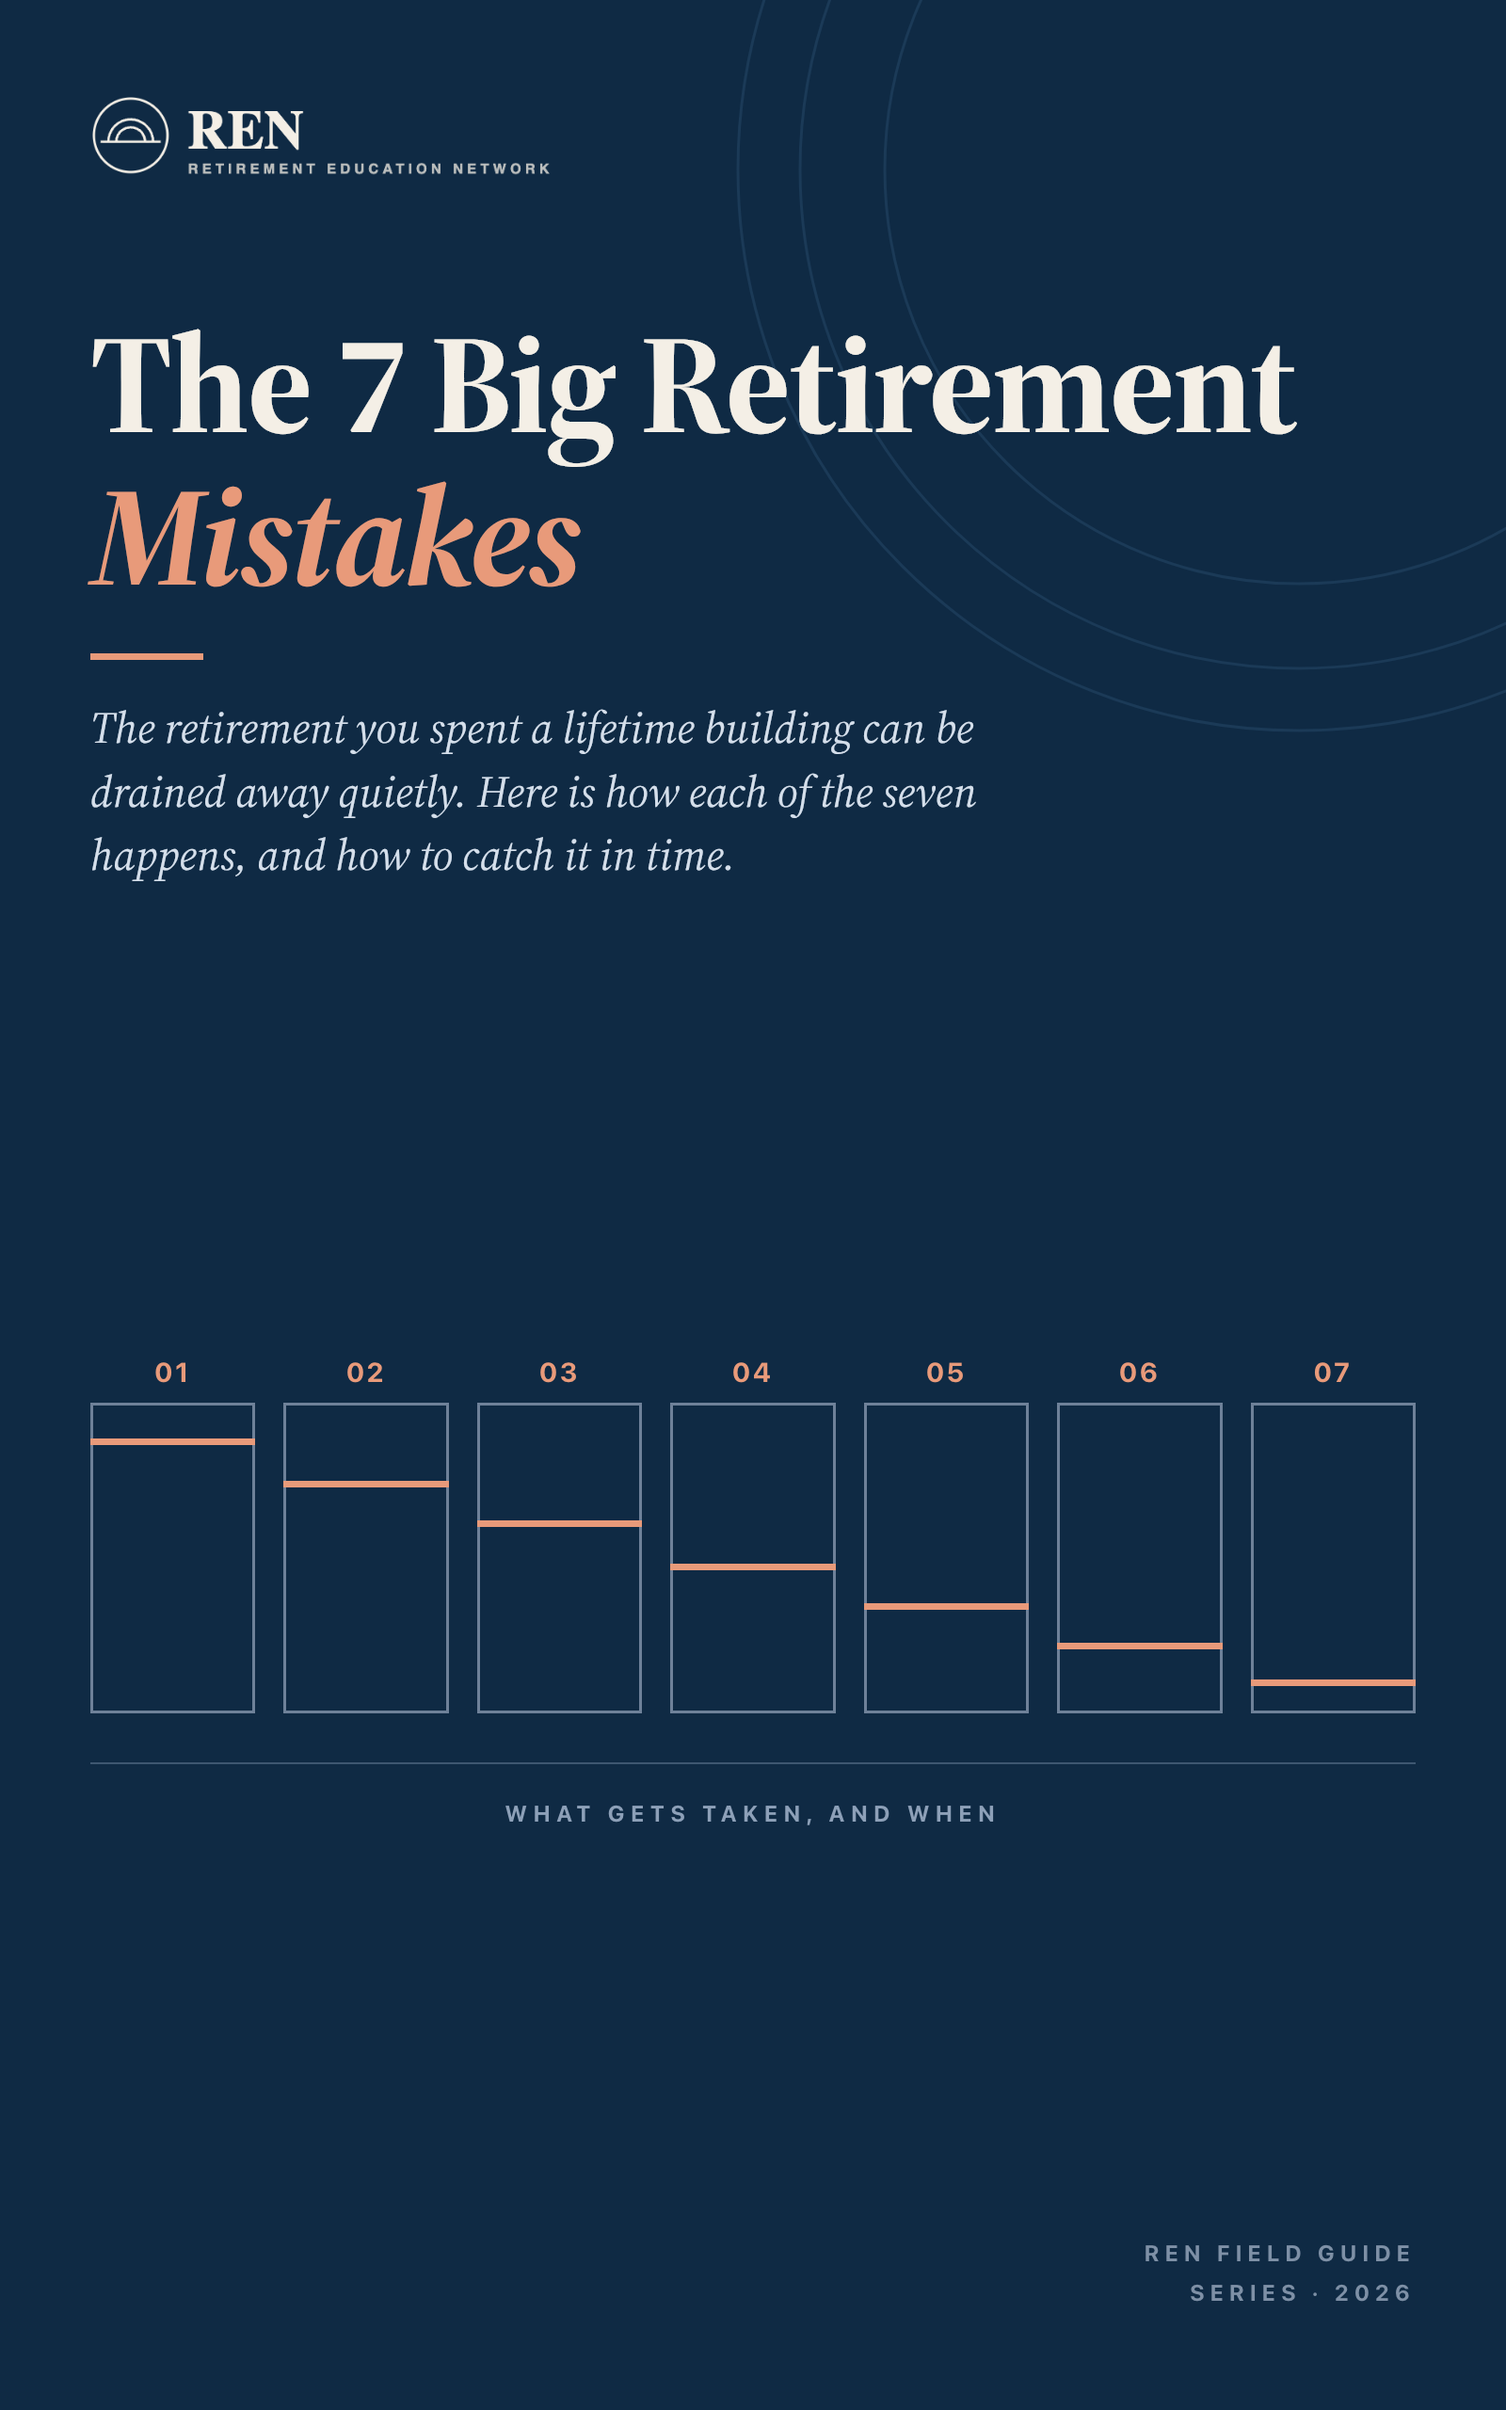
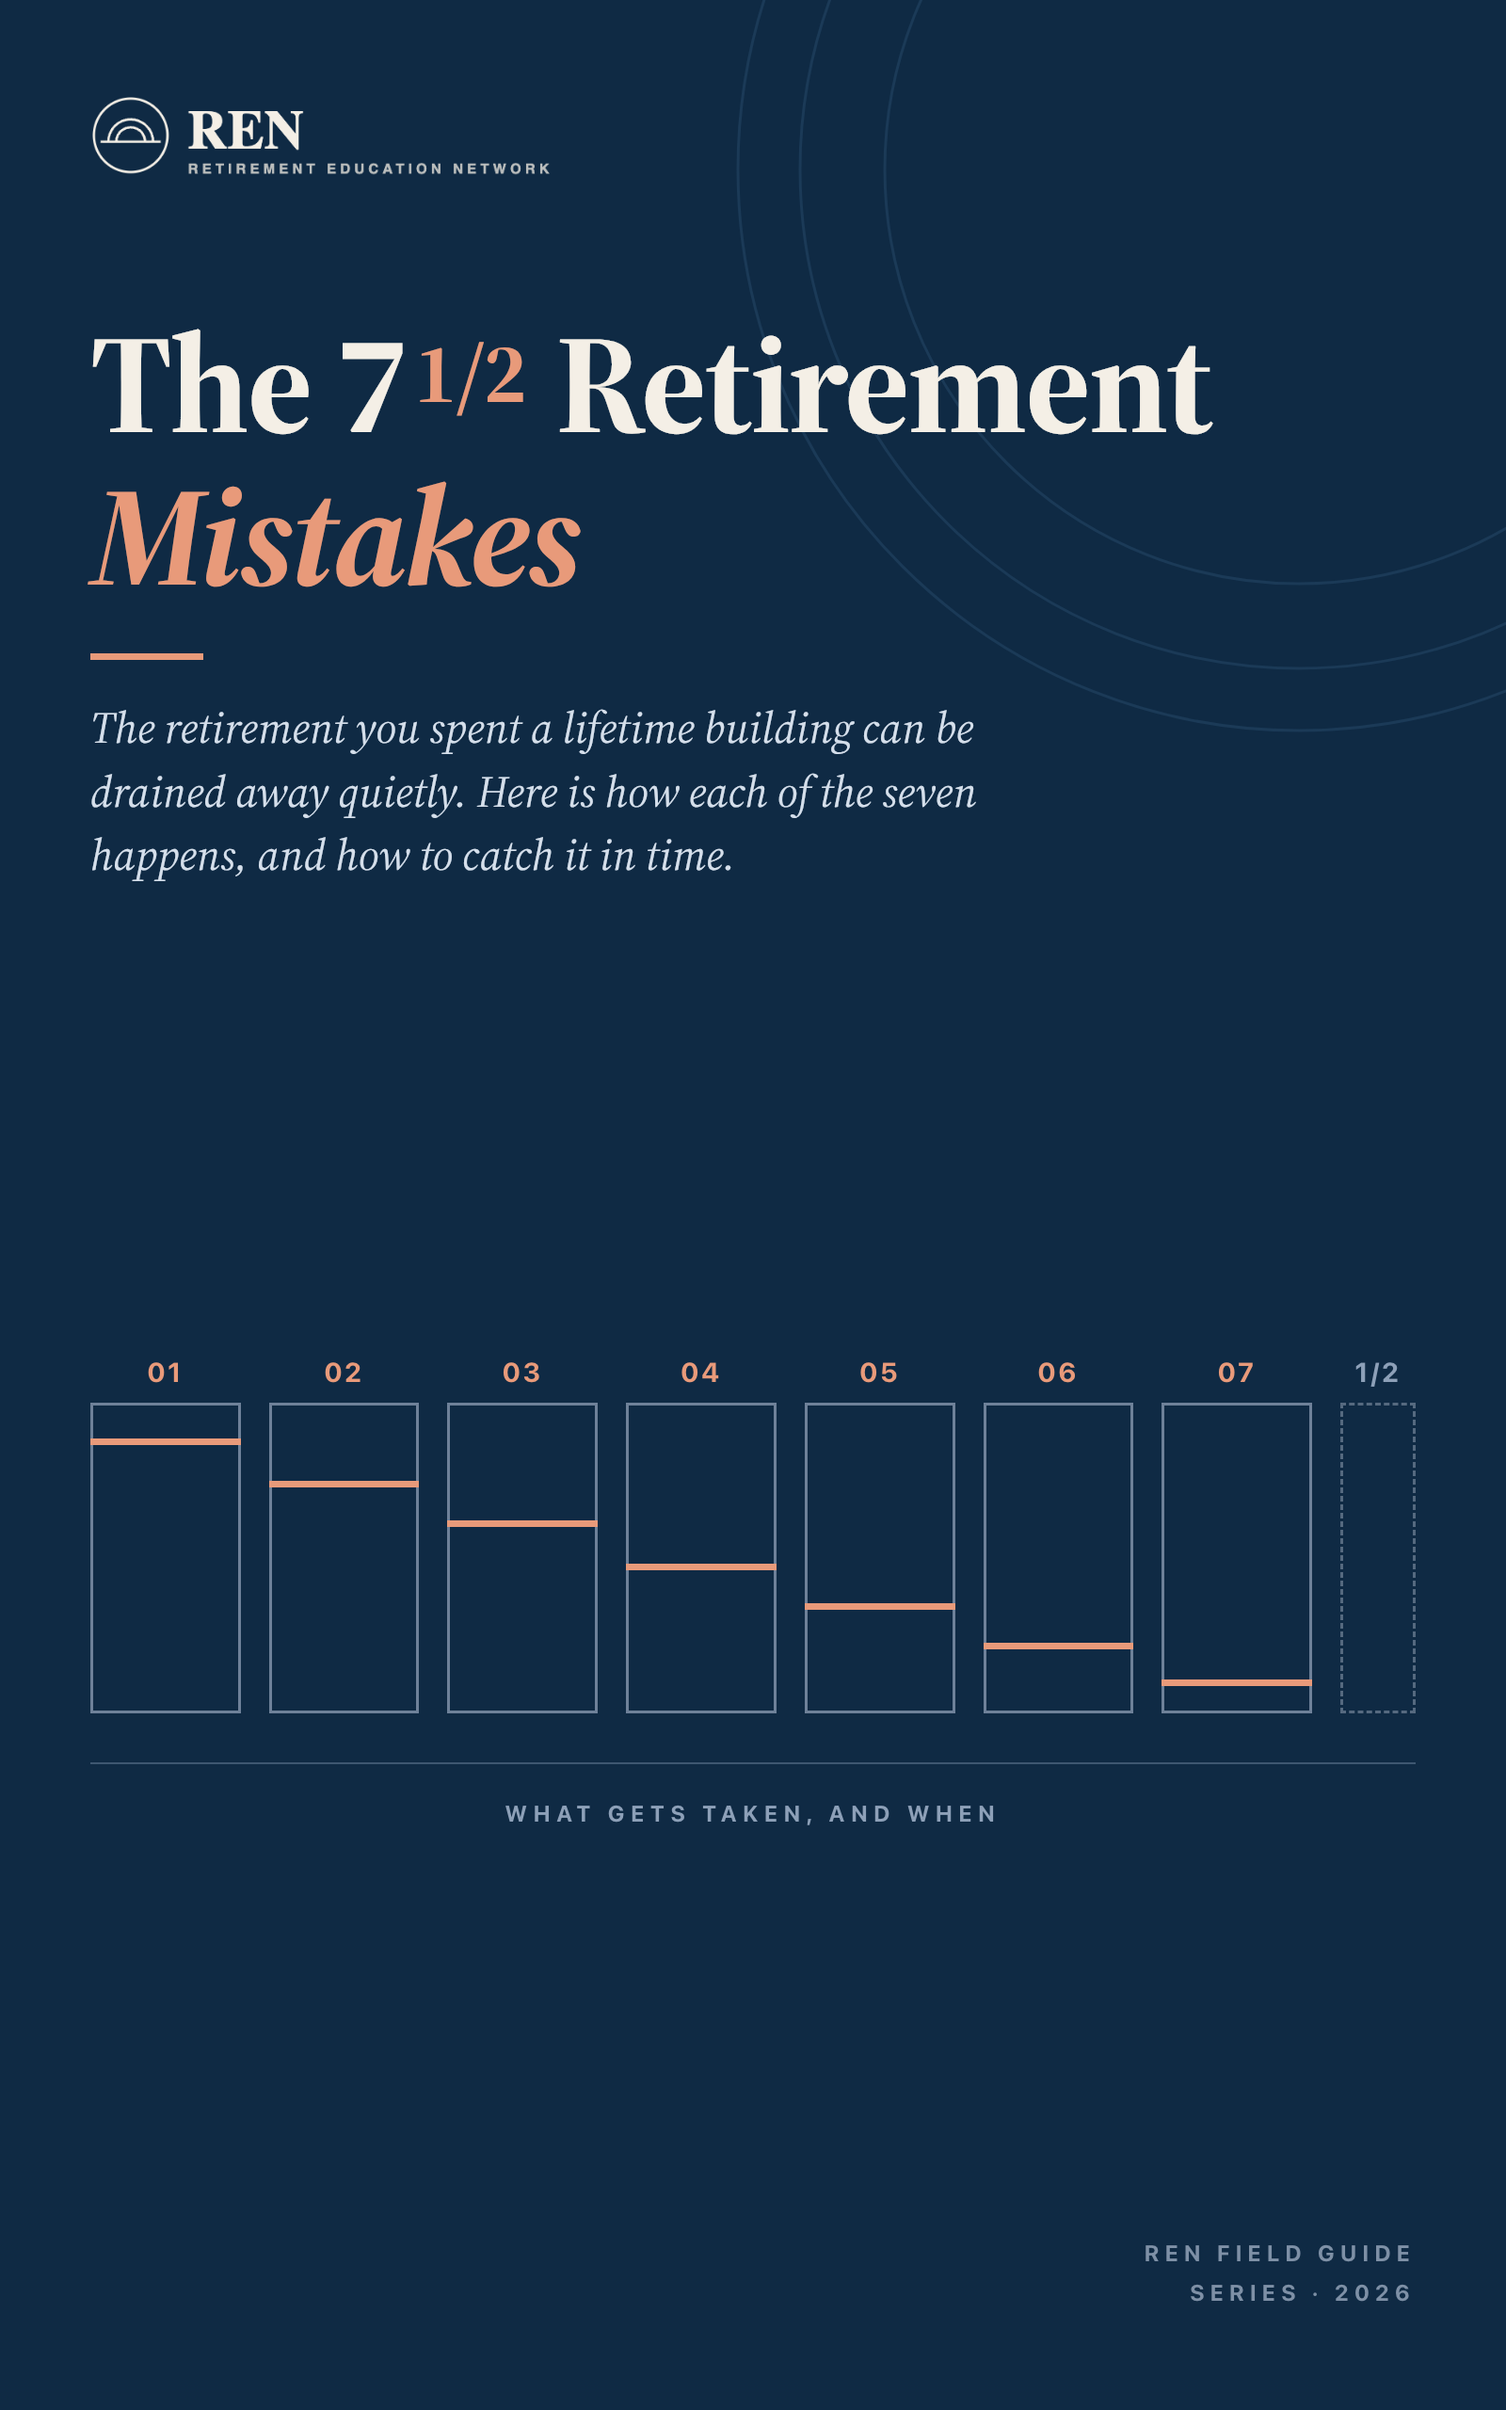
Book: retitle to The 7 1/2 Retirement Mistakes
The closing chapter becomes Mistake 7 1/2, so the offer reads as the book's
own conclusion rather than a pitch bolted onto the end. Display title only.
The URL, the anchors and MISTAKES_TOC ids are unchanged; the "Mistake N."
numbering has never lived in an H1, only in the Contents list and the TOC.

New cover art with the retitled cover and a dashed half vial after the seven.

Also records the correct pandoc invocation in lib/book-mistakes.ts. Pandoc 3.9
enables tex_math_dollars for gfm, and a plain -f gfm reads the text between two
dollar amounts in one paragraph as TeX math and mangles the digits.

Claude-Session: https://claude.ai/code/session_01UJKnz2qvkpwzR2kFVFTAmo

diff --git a/content/book-mistakes/book-compiled.html b/content/book-mistakes/book-compiled.html
@@ -1,8 +1,12 @@
-<!-- COVER PAGE. Cover art TBD. Title and subtitle LOCKED 2026-08-08 per BOOK-DECISIONS.md
-     ("The 7 Big Retirement Mistakes"). Offer name LOCKED the same day: Retirement Double Check.
+<!-- COVER PAGE. Title RETITLED 2026-08-09 to "The 7 1/2 Retirement Mistakes" (Sean). The closing
+     chapter is now Mistake 7 1/2, so the offer is the book's own conclusion rather than a pitch
+     bolted on the end. Subtitle unchanged and still locked. Offer name LOCKED 2026-08-08:
+     Retirement Double Check. Write the fraction as "7 1/2", never as a fraction glyph: the title
+     travels through SMS, ad platforms and CSV exports, and a non-ASCII character costs an SMS
+     segment. The URL stays /guide/7-big-retirement-mistakes and does not change.
      A USPTO clearance search is still outstanding before any domain purchase or printing. -->
 
-<p><strong>The 7 Big Retirement Mistakes</strong></p>
+<p><strong>The 7 1/2 Retirement Mistakes</strong></p>
 <p>Seven quiet ways the retirement you spent a lifetime building gets drained away, and how to catch each one in time.</p>
 <p>Published by the Retirement Education Network</p>
 <p>Copyright © 2026 by the Retirement Education Network</p>
@@ -57,7 +61,7 @@
 <li><strong>Mistake 5. The Form That Overrides Your Will</strong> How to make sure your money reaches the people you meant it to reach.</li>
 <li><strong>Mistake 6. The Accounts You Stopped Thinking About</strong> What your accounts actually cost you every year, and how to find the ones you lost track of.</li>
 <li><strong>Mistake 7. The Asset You Spent a Lifetime Earning</strong> How to get this decision right, and what is still open to you if you have already claimed.</li>
-<li><strong>Closing. The Questions This Book Cannot Answer</strong> What to do when you want the answer for your situation rather than the general one.</li>
+<li><strong>Mistake 7 1/2. The Questions This Book Cannot Answer</strong> Reading all of this, and then doing nothing with it.</li>
 </ul>
 <hr />
 <!-- COMPLIANCE STATUS 2026-08-08.
@@ -1034,11 +1038,14 @@
 <p>You have already earned this. What is left is deciding how much of it you keep.</p>
 <p><strong>Where these figures come from.</strong> All Social Security rules and figures are from the Social Security Administration's published program manual at ssa.gov: claiming percentages and full retirement ages, RS 00615.105; delayed retirement credits and their accrual during suspension, RS 00615.690 and RS 00615.692; survivor percentages and the 28.5 percent maximum reduction, RS 00615.301; the RIB-LIM cap and the 82.5 percent floor, RS 00615.320; withdrawal of an application, GN 00206.005 (requirements) and GN 00206.014 (processing); voluntary suspension, GN 02409.100; deemed filing and the survivor exclusion, GN 00204.035; the 2026 earnings test amounts, RS 02501.021 and RS 02501.025; adjustment of the reduction factor, RS 00615.482. Pension survivor benefits, spousal consent and the 180-day election period, Internal Revenue Code section 417. Taxation of benefits, Internal Revenue Code section 86. Brackets, standard deduction and the temporary senior deduction for 2026, Internal Revenue Service.</p>
 <h1 id="the-questions-this-book-cannot-answer">The Questions This Book Cannot Answer</h1>
-<p><em>What to do when you want the answer for your situation rather than the general one.</em></p>
+<p><em>Reading all of this, and then doing nothing with it.</em></p>
 <p>If you have read the whole book, you now understand more about how retirement accounts actually behave than most people ever will.</p>
 <p>If you turned straight to this page, that is fine too. Here is where you are. You are somewhere between 59 and 70. You have money in more than one place, because almost everyone does by this point: a 401(k) at the job you are leaving or have left, a 403(b) if you taught or worked at a hospital or a nonprofit, a 457 plan if you worked for a city or a county, a Thrift Savings Plan if you were federal, an IRA or a rollover IRA holding what became of a plan from an employer you barely think about anymore, some savings outside all of that, and possibly a pension with an election attached to it. You have somewhere between a few hundred thousand and a bit over a million dollars across those accounts. You own a home you probably do not count.</p>
 <p>That puts you in a specific and badly served position. You have too much saved for the programs that catch people who saved nothing, and not enough to shrug off a long-term care event, a bad decade in the market, or a tax bill you did not see coming.</p>
-<p>This chapter is about the one thing a book cannot do for you, and how to get that done.</p>
+<p>There is a seventh-and-a-half mistake, and this chapter is it.</p>
+<p>It is the only one in the book that is not built into the rules. The other seven are traps in the machinery: a calendar, a threshold written into a statute decades ago and never adjusted since, a form filled in at a new-hire orientation, a window that opens once. They are running whether you know about them or not.</p>
+<p>The half is different. It is reading all of this, recognizing two or three of them in your own situation, closing the book, and letting another year go by. That is why it is a half rather than a whole. Nothing is taken from you, and no rule catches you. It is the only mistake in this book that costs nothing at all to avoid, and the only one whose deadline is borrowed from the other seven.</p>
+<p>So this chapter is about the one thing a book cannot do for you, and how to get that done.</p>
 <h2 id="first-one-thing-that-needs-saying-plainly">First, One Thing That Needs Saying Plainly</h2>
 <p>None of the seven risks in this book are your fault.</p>
 <p>That is not a courtesy. Look at where each of them actually comes from.</p>
@@ -1051,6 +1058,7 @@
 <p>The seventh is that the largest single financial decision most people make, when to claim Social Security and which survivor election to take on it and on a pension, is made once, often quickly, sometimes in a room at a benefits office, and several parts of it become permanent immediately.</p>
 <p>Nobody designed that. It accumulated. Different rules were written in different decades by different people solving different problems, and no one was ever responsible for how they would interact inside one household. On top of that, most of what gets explained to you about these accounts is explained by someone who is compensated when you do a particular thing with them, including, to be direct about it, the person who handed you this book.</p>
 <p>You saved the money. Across a working life, out of paychecks that had other claims on them. That was the hard part, and you did it. What is left is a set of rules you were never handed.</p>
+<p>That is the whole of the seven. The half is the only one of them that was ever in your hands, which is also the good news in it.</p>
 <h2 id="what-a-book-cannot-do">What a Book Cannot Do</h2>
 <p>A book can teach you the mechanism. It cannot run your numbers.</p>
 <p>Everything in these pages is general, and it has to be. Two households with the same balance, the same ages, and the same retirement date can face completely opposite right answers. It turns on filing status, state, whether one spouse is still working, what a pension pays and which election is still available on it, how much of the total is pre-tax versus already taxed, when each spouse claims Social Security, who is named on each beneficiary form, and what tax brackets those beneficiaries are in.</p>

diff --git a/lib/book-mistakes.ts b/lib/book-mistakes.ts
@@ -1,10 +1,15 @@
 import fs from "fs";
 import path from "path";
 
-// Source of truth is content/book-mistakes/manuscript.md. book-compiled.html is
-// generated from it with pandoc and committed, because the build environment has
-// no pandoc. After editing the manuscript run:
-//   pandoc content/book-mistakes/manuscript.md -f gfm -t html --wrap=none -o content/book-mistakes/book-compiled.html
+// Source of truth is elevated-advisor/books/7-big-retirement-mistakes/chapters/*.md.
+// No book source lives in this repo (Sean, 2026-08-08); book-compiled.html is generated
+// there and committed here, because the build environment has no pandoc. To regenerate,
+// from elevated-advisor/books/7-big-retirement-mistakes:
+//   awk 'FNR==1 && NR!=1 {print ""} {print}' chapters/*.md > MANUSCRIPT.md
+//   pandoc MANUSCRIPT.md -f gfm-tex_math_dollars -t html --wrap=none \
+//     -o ~/ren-site/content/book-mistakes/book-compiled.html
+// -tex_math_dollars is required. Pandoc 3.9 enables it for gfm and this book is full of
+// dollar amounts, so a plain -f gfm turns "$24,800 ... $2,480" into mangled inline math.
 //
 // Two manuscript conventions this file depends on:
 //   1. Each chapter is a single h1 followed by a one-line italic subtitle.
@@ -74,5 +79,5 @@ export const MISTAKES_TOC = [
   { label: "5. The Form That Overrides Your Will", id: "the-form-that-overrides-your-will" },
   { label: "6. The Accounts You Stopped Thinking About", id: "the-accounts-you-stopped-thinking-about" },
   { label: "7. The Asset You Spent a Lifetime Earning", id: "the-asset-you-spent-a-lifetime-earning" },
-  { label: "Closing: The Questions This Book Cannot Answer", id: "the-questions-this-book-cannot-answer" },
+  { label: "7 1/2. The Questions This Book Cannot Answer", id: "the-questions-this-book-cannot-answer" },
 ];

diff --git a/app/guide/7-big-retirement-mistakes/page.tsx b/app/guide/7-big-retirement-mistakes/page.tsx
@@ -4,7 +4,7 @@ import BookFlipbook from "@/components/BookFlipbook";
 import { BOOK_CSS } from "@/lib/book-css";
 
 export const metadata: Metadata = {
-  title: "The 7 Big Retirement Mistakes | Retirement Education Network",
+  title: "The 7 1/2 Retirement Mistakes | Retirement Education Network",
   description:
     "Seven quiet ways the retirement you spent a lifetime building gets drained away, and how to catch each one in time. A free guide from the Retirement Education Network.",
   robots: { index: false, follow: false },
@@ -21,7 +21,7 @@ export default function MistakesBookPage() {
         bodyHtml={bodyHtml}
         frontMatter={frontMatter}
         toc={MISTAKES_TOC}
-        title="The 7 Big Retirement Mistakes"
+        title="The 7 1/2 Retirement Mistakes"
         coverSrc="/images/book-cover-mistakes.png"
         coverSubtitle="Seven quiet ways the retirement you spent a lifetime building gets drained away, and how to catch each one in time."
       />
